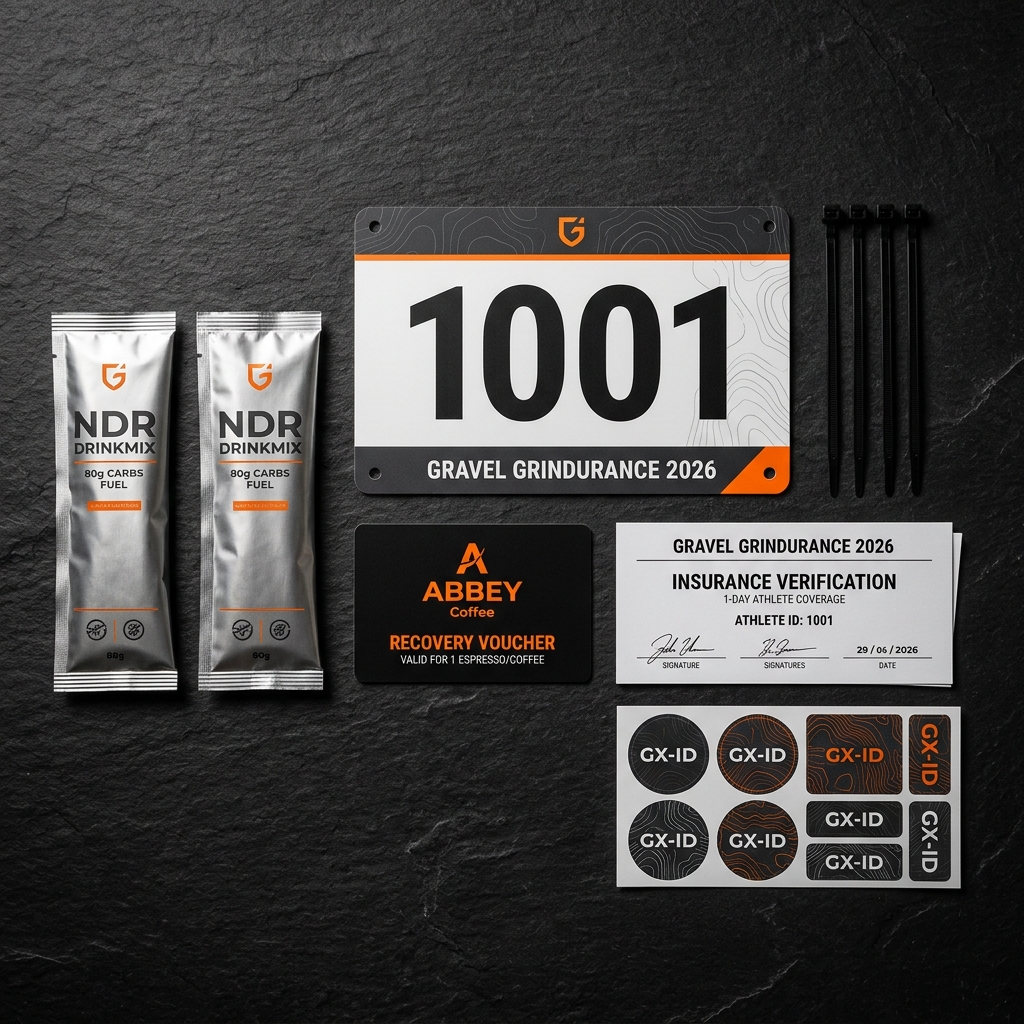
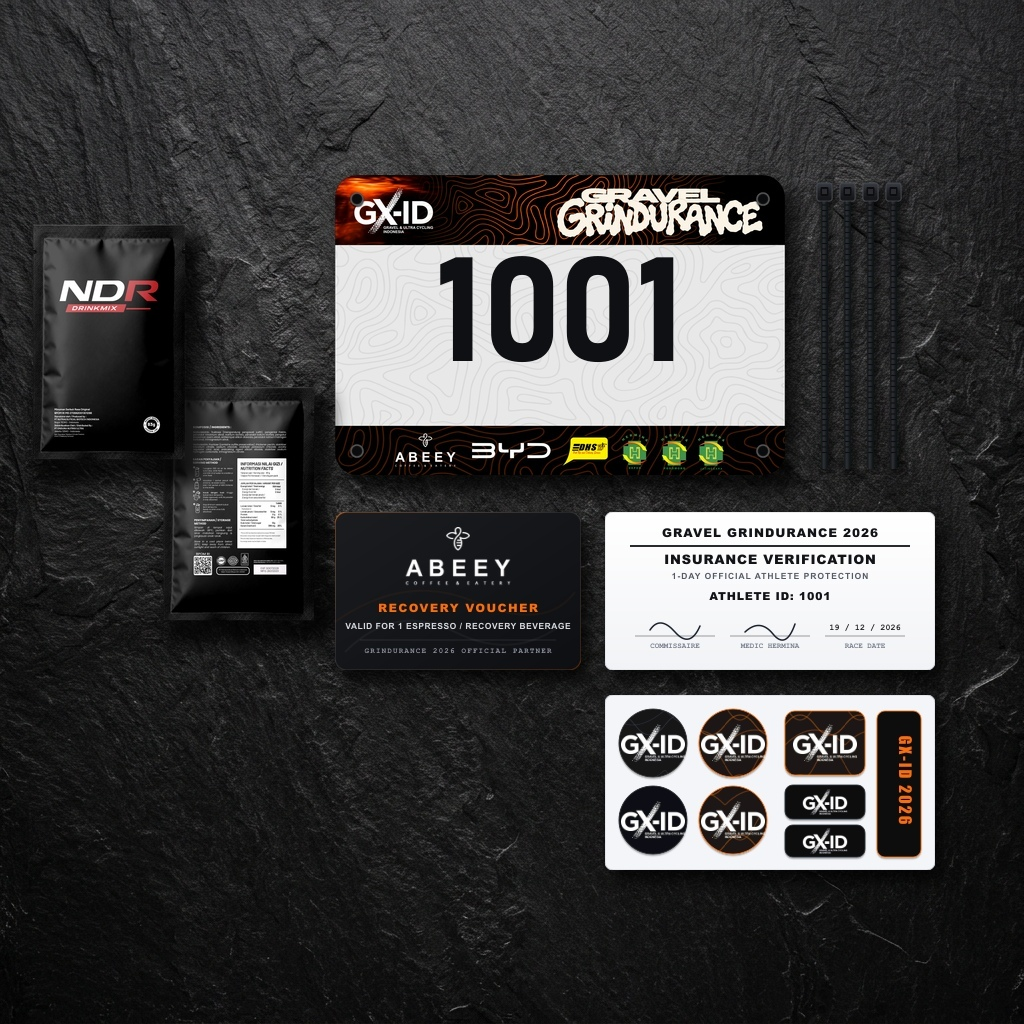
feat(racepack): update official starter kit flat lay with authentic BIB, NDR products, and ABEEY voucher

diff --git a/lib/data/racepacks.ts b/lib/data/racepacks.ts
@@ -92,8 +92,8 @@ export const PACK_TIERS: PackTierItem[] = [
       },
       {
         text: {
-          id: 'Race Pack: Voucher Pemulihan ABBEY Coffee & Stiker GX-ID',
-          en: 'Race Pack: ABBEY Coffee Recovery Voucher & GX-ID Stickers',
+          id: 'Race Pack: Voucher Pemulihan ABEEY Coffee & Stiker GX-ID',
+          en: 'Race Pack: ABEEY Coffee Recovery Voucher & GX-ID Stickers',
         },
       },
     ],
@@ -142,8 +142,8 @@ export const PACK_TIERS: PackTierItem[] = [
       },
       {
         text: {
-          id: 'Race Pack: Asuransi 1 Hari, Voucher ABBEY Coffee, & Stiker GX-ID',
-          en: 'Race Pack: 1-Day Insurance, ABBEY Coffee Voucher, & GX-ID Stickers',
+          id: 'Race Pack: Asuransi 1 Hari, Voucher ABEEY Coffee, & Stiker GX-ID',
+          en: 'Race Pack: 1-Day Insurance, ABEEY Coffee Voucher, & GX-ID Stickers',
         },
       },
     ],
@@ -169,9 +169,9 @@ export const RPC_LOGISTICS: RpcOption[] = [
     badge: { id: 'GRATIS (RP 0)', en: 'FREE (IDR 0)' },
     badgeHighlight: false,
     title: { id: 'MINGGU, 13 DESEMBER 2026', en: 'SUNDAY, DEC 13, 2026' },
-    subtitle: { id: 'ABBEY Coffee & Eatery · Stasiun LRT Harjamukti Cibubur · 10:00–17:00 WIB', en: 'ABBEY Coffee & Eatery · Harjamukti LRT Station Cibubur · 10:00–17:00 WIB' },
+    subtitle: { id: 'ABEEY Coffee & Eatery · Stasiun LRT Harjamukti Cibubur · 10:00–17:00 WIB', en: 'ABEEY Coffee & Eatery · Harjamukti LRT Station Cibubur · 10:00–17:00 WIB' },
     items: [
-      { id: 'Pengambilan Starter Kit (Plat BIB #1000+, Nutrisi NDR, Asuransi, Voucher ABBEY)', en: 'Starter Kit collection (BIB Plate #1000+, NDR Nutrition, Insurance, ABBEY Voucher)' },
+      { id: 'Pengambilan Starter Kit (Plat BIB #1000+, Nutrisi NDR, Asuransi, Voucher ABEEY)', en: 'Starter Kit collection (BIB Plate #1000+, NDR Nutrition, Insurance, ABEEY Voucher)' },
       { id: 'Akses Coaching Clinic Navigasi Gravel & Strategi Ban (11:00 WIB)', en: 'Access to Gravel Navigation & Tire Strategy Clinic (11:00 WIB)' },
       { id: 'Pengarahan Teknis Rute Final & Regulasi Safety di Technical Meeting (14:00 WIB)', en: 'Final Route & Safety Briefing at Official Technical Meeting (14:00 WIB)' },
     ],
@@ -278,14 +278,14 @@ export const OFFICIAL_GEAR_ITEMS: OfficialGearItem[] = [
     tagCategory: { id: 'RACE PACK STARTER KIT', en: 'RACE PACK STARTER KIT' },
     title: { id: 'OFFICIAL RACE PACK STARTER KIT', en: 'OFFICIAL RACE PACK STARTER KIT' },
     description: {
-      id: 'Paket starter kit yang diambil saat pengambilan Race Pack (RPC). Mencakup nutrisi hidrasi NDR Drinkmix Carbs 80g, plat nomor sepeda waterproof #1000+ dengan kabel ties, asuransi kecelakaan 1 hari event, voucher pemulihan ABBEY Coffee, dan stiker resmi GX-ID. Tidak memuat medali (diberikan saat finish < COT) maupun jersey (dipesan via PO).',
-      en: 'Official starter kit collected during Race Pack Collection (RPC). Includes NDR Drinkmix Carbs 80g nutrition, waterproof bike plate #1000+ with zip ties, 1-day accident insurance, ABBEY Coffee recovery voucher, and official GX-ID stickers. Excludes medal (awarded at finish < COT) and jersey (pre-ordered via PO).',
+      id: 'Paket starter kit yang diambil saat pengambilan Race Pack (RPC). Mencakup nutrisi hidrasi NDR Drinkmix Carbs 80g, plat nomor sepeda waterproof #1000+ dengan kabel ties, asuransi kecelakaan 1 hari event, voucher pemulihan ABEEY Coffee, dan stiker resmi GX-ID. Tidak memuat medali (diberikan saat finish < COT) maupun jersey (dipesan via PO).',
+      en: 'Official starter kit collected during Race Pack Collection (RPC). Includes NDR Drinkmix Carbs 80g nutrition, waterproof bike plate #1000+ with zip ties, 1-day accident insurance, ABEEY Coffee recovery voucher, and official GX-ID stickers. Excludes medal (awarded at finish < COT) and jersey (pre-ordered via PO).',
     },
     specs: [
       { id: 'Nutrisi NDR Drinkmix 80g', en: 'NDR Drinkmix 80g Nutrition' },
       { id: 'Plat BIB Sepeda Waterproof', en: 'Waterproof Bike BIB Plate' },
       { id: 'Asuransi Kecelakaan 1 Hari', en: '1-Day Accident Insurance' },
-      { id: 'Voucher ABBEY Coffee & Stiker', en: 'ABBEY Coffee Voucher & Stickers' },
+      { id: 'Voucher ABEEY Coffee & Stiker', en: 'ABEEY Coffee Voucher & Stickers' },
     ],
     imageSrc: '/racepacks/starter-kit.webp',
     visualPreview: {
